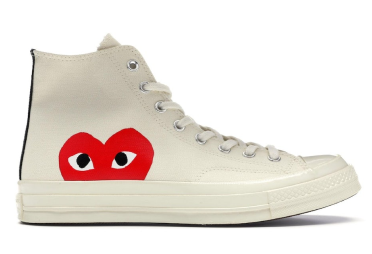
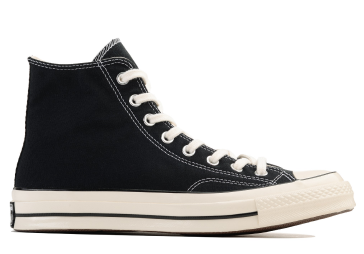
new vers

diff --git a/index.html b/index.html
@@ -31,66 +31,15 @@
 
     <div class="crosct">
       <div class="cards">
-        <a href="#">
+        <a href="crospage/crospage4.html">
           <article class="article">
             <div class="container">
-              <img src="png/9.png" alt="Nike Air Max Plus" class="imgcr">
-              <h3 class="container__title">Nike Air Max Plus</h3>
-              <p class="container__title">Patta FC Barcelona Culers del <br> Món</p>
+              <img src="png/4.png" alt="New Balance 574 YURT" class="imgcr">
+              <h3 class="container__title">New Balance 574 YURT</h3>
+              <p class="container__title">Salehe Bembury Shark Skin</p>
             </div>
           </article>
         </a>
-        <a href="#">
-          <article class="article">
-            <div class="container">
-              <img src="png/8.png" alt="Jordan 1 Retro High OG SP" class="imgcr">
-              <h3 class="container__title">Jordan 1 Retro High OG <br> SP</h3>
-              <p class="container__title">Union LA Bephies Beauty <br> Supply Summer of ‘96</p>
-            </div>
-          </article>
-        </a>
-        <a href="#">
-          <article class="article">
-            <div class="container">
-              <img src="png/7.png" alt="adidas Campus 00s" class="imgcr">
-              <h3 class="container__title">adidas Campus 00s</h3>
-              <p class="container__title">Core Black</p>
-            </div>
-          </article>
-        </a>
-      </div>
-
-      <div class="cards">
-          <a href="#">
-            <article class="article">
-              <div class="container">
-                <img src="png/6.png" alt="Converse Chuck Taylor All Star 70 Hi" class="imgcr">
-                <h3 class="container__title">Converse Chuck Taylor <br> All Star 70 Hi</h3>
-                <p class="container__title">Comme des Garcons PLAY White</p>
-              </div>
-            </article>
-          </a>
-          <a href="#">
-            <article class="article">
-              <div class="container">
-                <img src="png/5.png" alt="UGG Classic Ultra Mini Boot" class="imgcr">
-                <h3 class="container__title">UGG Classic Ultra Mini <br> Boot</h3>
-                <p class="container__title">Chestnut (Women's)</p>
-              </div>
-            </article>
-          </a>
-          <a href="crospage/crospage4.html">
-            <article class="article">
-              <div class="container">
-                <img src="png/4.png" alt="New Balance 574 YURT" class="imgcr">
-                <h3 class="container__title">New Balance 574 YURT</h3>
-                <p class="container__title">Salehe Bembury Shark Skin</p>
-              </div>
-            </article>
-          </a>
-      </div>
-
-      <div class="cards cards3">
         <a href="crospage/crospage3.html">
           <article class="article">
             <div class="container">
@@ -103,18 +52,69 @@
         <a href="crospage/crospage2.html">
           <article class="article">
             <div class="container">
-              <img alt="Jordan 1 Retro Low Golf" src="png/2.png" class="imgcr">
-              <h3 class="container__title">Jordan 1 Retro Low <br> Golf</h3>
-              <p class="container__text">Travis Scott Neutral Olive</p>
+              <img src="png/6.png" alt="Converse Chuck 70 High" class="imgcr">
+              <h3 class="container__title">Converse Chuck 70 High</h3>
+              <p class="container__title">Comme des Garcons PLAY Black</p>
             </div>
           </article>
         </a>
+      </div>
+
+      <div class="cards">
         <a href="crospage/crospage1.html">
           <article class="article">
             <div class="container">
               <img alt="adidas Yeezy Foam RNR" src="png/1.png" class="imgcr">
               <h3 class="container__title">adidas Yeezy Foam RNR</h3>
               <p class="container__text">Stone Sage</p>
+            </div>
+          </article>
+        </a>
+          <a href="#">
+            <article class="article">
+              <div class="container">
+                <img src="png/9.png" alt="Nike Air Max Plus" class="imgcr">
+                <h3 class="container__title">Nike Air Max Plus</h3>
+                <p class="container__title">Patta FC Barcelona Culers del <br> Món</p>
+              </div>
+            </article>
+          </a>
+          <a href="#">
+            <article class="article">
+              <div class="container">
+                <img src="png/8.png" alt="Jordan 1 Retro High OG SP" class="imgcr">
+                <h3 class="container__title">Jordan 1 Retro High OG <br> SP</h3>
+                <p class="container__title">Union LA Bephies Beauty <br> Supply Summer of ‘96</p>
+              </div>
+            </article>
+          </a>
+      </div>
+
+      <div class="cards cards3">
+        <a href="#">
+          <article class="article">
+            <div class="container">
+              <img src="png/7.png" alt="adidas Campus 00s" class="imgcr">
+              <h3 class="container__title">adidas Campus 00s</h3>
+              <p class="container__title">Core Black</p>
+            </div>
+          </article>
+        </a>
+        <a href="#">
+          <article class="article">
+            <div class="container">
+              <img src="png/5.png" alt="UGG Classic Ultra Mini Boot" class="imgcr">
+              <h3 class="container__title">UGG Classic Ultra Mini <br> Boot</h3>
+              <p class="container__title">Chestnut (Women's)</p>
+            </div>
+          </article>
+        </a>
+        <a href="#">
+          <article class="article">
+            <div class="container">
+              <img alt="Jordan 1 Retro Low Golf" src="png/2.png" class="imgcr">
+              <h3 class="container__title">Jordan 1 Retro Low <br> Golf</h3>
+              <p class="container__text">Travis Scott Neutral Olive</p>
             </div>
           </article>
         </a>

diff --git a/crospage/crospage3.html b/crospage/crospage3.html
@@ -30,13 +30,20 @@
             <img src="/png/3.png" alt="no cross:(">
           </div>
           <div class="crosinf">
-            <h1 class="h1">Nike Dunk Low SP</h1>
-            <h2 class="h2">Nike Dunk Low Orange Blaze Syracuse</h2>
-            <p class="text">Nike — американская транснациональная компания, специализирующаяся на спортивной одежде и обуви. Штаб-квартира — в городе Бивертон (штат Орегон).
-
-              Почти вся продукция Nike производится сторонними компаниями-подрядчиками вне территории США (в основном в Азии), сама компания является правообладателем торговых марок, разрабатывает дизайн продукции и владеет сетью магазинов (около 1150 по всему миру), а также торговых центров NikeTown. С 20 сентября 2013 года входит в Промышленный индекс Доу Джонса. Nike является самым дорогим спортивным брендом в мире (по мнению Forbes).
+            <div class="block1">
+              <h1 class="h1">Nike Dunk Low SP</h1>
+            </div>
+            <div class="block2">
+              <h2 class="h2">Nike Dunk Low Orange Blaze Syracuse</h2>
+            </div>
+            <div class="crosinform">
+            <div class="block3">
+              <p class="text">Nike — американская транснациональная компания, специализирующаяся на спортивной одежде и обуви. Штаб-квартира — в городе Бивертон (штат Орегон).
+                Почти вся продукция Nike производится сторонними компаниями-подрядчиками вне территории США (в основном в Азии), сама компания является правообладателем торговых марок, разрабатывает дизайн продукции и владеет сетью магазинов (около 1150 по всему миру), а также торговых центров NikeTown. С 20 сентября 2013 года входит в Промышленный индекс Доу Джонса. Nike является самым дорогим спортивным брендом в мире (по мнению Forbes).
               
-              Компания, основанная 25 января 1964 года под названием Blue Ribbon Sports, официально стала Nike, Inc. в 1978 году. Nike продаёт свою продукцию под собственным брендом, а также под марками Nike Golf, Nike Pro, Nike +, Air Jordan, Nike Blazers, Air Force 1, Nike Dunk, Air Max, Foamposite, Nike Skateboarding, Nike CR7, Hurley International, Converse. Nike является спонсором многих спортсменов и спортивных команд по всему миру.</p>
+                Компания, основанная 25 января 1964 года под названием Blue Ribbon Sports, официально стала Nike, Inc. в 1978 году. Nike продаёт свою продукцию под собственным брендом, а также под марками Nike Golf, Nike Pro, Nike +, Air Jordan, Nike Blazers, Air Force 1, Nike Dunk, Air Max, Foamposite, Nike Skateboarding, Nike CR7, Hurley International, Converse. Nike является спонсором многих спортсменов и спортивных команд по всему миру.</p>
+            </div>
+            </div>
           </div>
         </div>
       </div>

diff --git a/additional styles css/crospage3.css b/additional styles css/crospage3.css
@@ -56,9 +56,60 @@
     flex-direction: column;
     align-items: flex-start;
     gap: 32px;
+    border-radius: 50px;
   }
 
   .crosimg {
+    height: 600px;
+    align-self: stretch;
+    width: 100%;
+  }
+
+  .croinf {
+    display: flex;
+    flex-direction: column;
+    align-items: flex-start;
+    gap: 24px;
+    align-self: stretch;
+  }
+
+
+  .crosinform {
+    display: flex;
+    align-items: flex-start;
+    gap: 32px;
+    align-self: stretch;
+  }
+
+
+
+  .block1 {
+    color: var(--black, #121723);
+    font-family: Anonymous Pro;
+    font-size: 48px;
+    font-style: normal;
+    font-weight: 400;
+    line-height: 48px; 
+  }
+
+  .block2 {
+    color: var(--black, #121723);
+    font-family: Anonymous Pro;
+    font-size: 36px;
+    font-style: normal;
+    font-weight: 400;
+    line-height: 100%; 
+  }
+
+  .block3 {
+    color: var(--black, #121723);
+    font-family: Anonymous Pro;
+    font-size: 20px;
+    font-style: normal;
+    font-weight: 400;
+    line-height: 28px;
+    width: 506px;
+    height: 840px;
 
   }
 

diff --git a/crospage/crospage2.html b/crospage/crospage2.html
@@ -3,7 +3,9 @@
 <head>
     <meta charset="UTF-8">
     <meta name="viewport" content="width=device-width, initial-scale=1.0">
-    <title>Jordan 1 Retro Low Golf</title>
+    <title>Converse Chuck 70 High</title>
+    <link rel="stylesheet" href="/additional styles css/normalize.css">
+    <link rel="stylesheet" href="/additional styles css/crospage3.css">
     <link rel="shortcut icon" href="png/mainlogo.jpeg">
 </head>
 <body>

diff --git a/crospage/crospage1.html b/crospage/crospage1.html
@@ -4,6 +4,8 @@
     <meta charset="UTF-8">
     <meta name="viewport" content="width=device-width, initial-scale=1.0">
     <title>adidas Yeezy Foam RNR</title>
+    <link rel="stylesheet" href="/additional styles css/normalize.css">
+    <link rel="stylesheet" href="/additional styles css/crospage3.css">
     <link rel="shortcut icon" href="png/mainlogo.jpeg">
 </head>
 <body>
